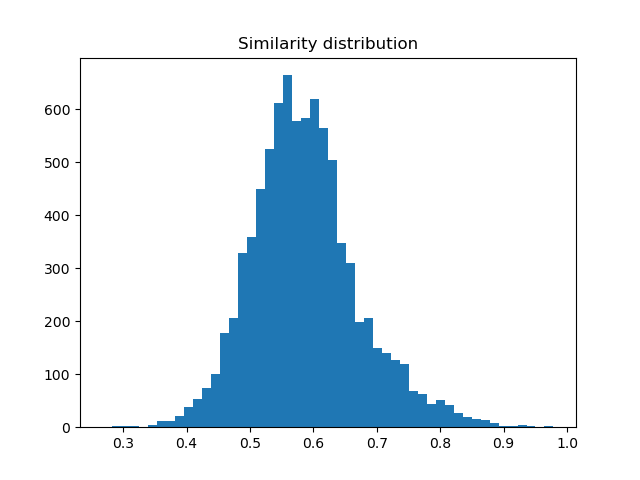
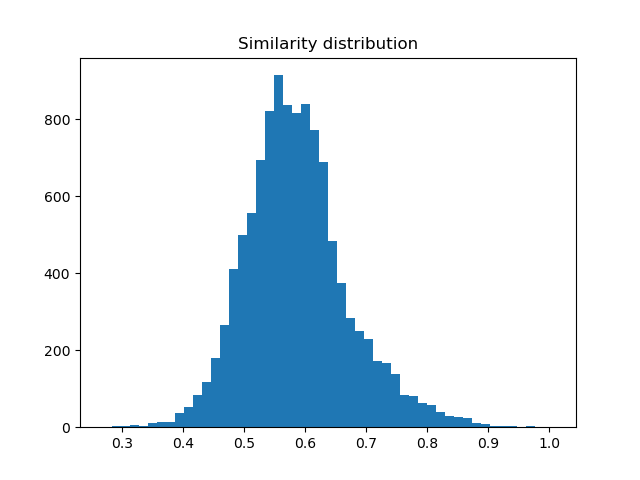
feat: 1300 data

diff --git a/role_classifier/context-similarity-experiment.py b/role_classifier/context-similarity-experiment.py
@@ -11,7 +11,7 @@ import os
 json_path = "../scraper/output-aut-en/output-en.json"
 image_dir = "../scraper/output-aut-en/images/"
 result_dir = "./clip_results_fixed"
-number_of_images = 1000
+number_of_images = 1500
 threshold = 0.65
 random_seed = 42
 
